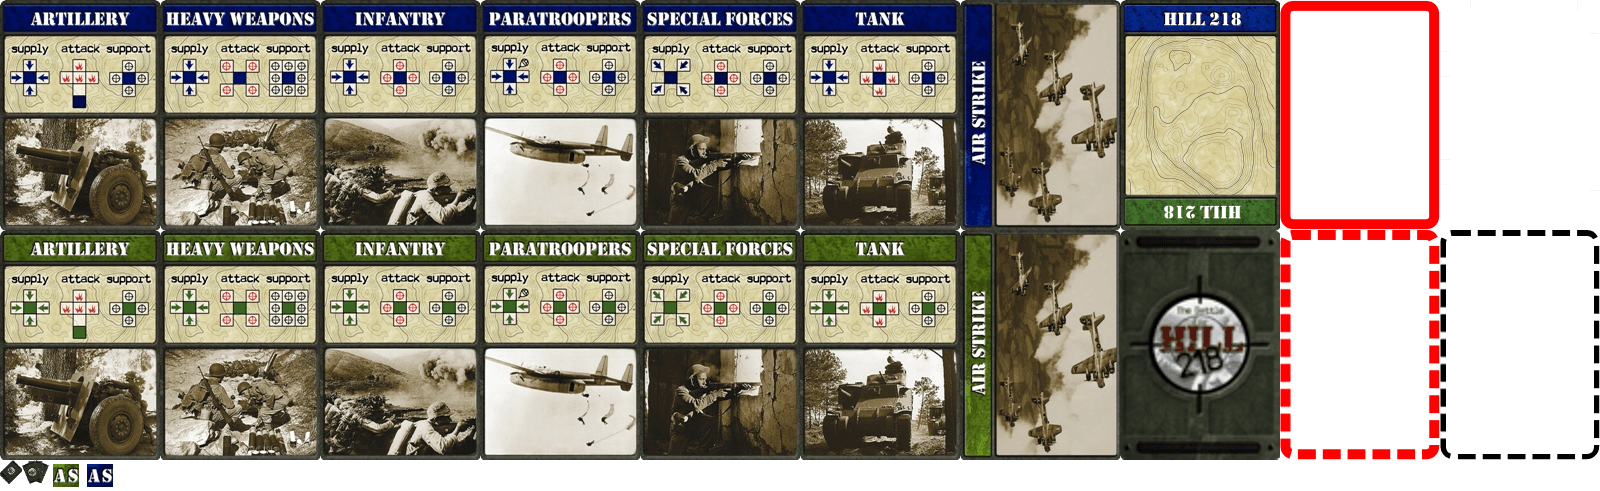
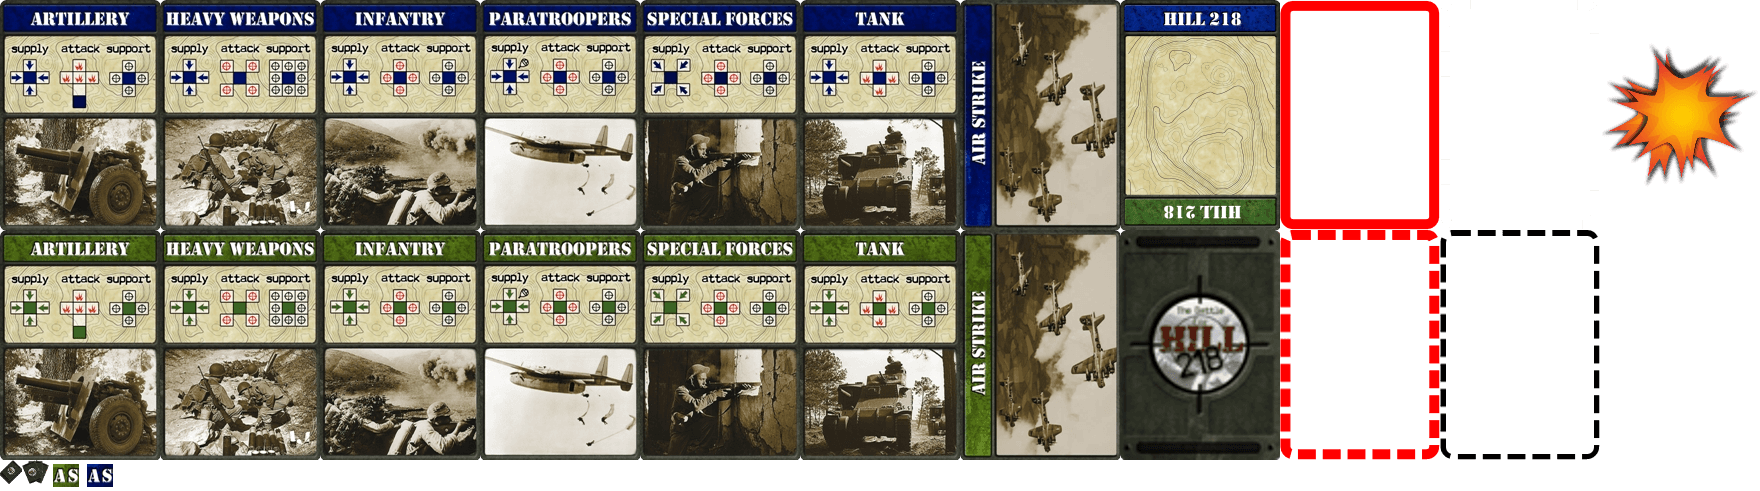
Explosion on attack card

diff --git a/battleforhilldhau.css b/battleforhilldhau.css
@@ -196,7 +196,6 @@
 .battlefield-button {
     width: 96px;
     height: 138px;
-    background: rgba(255, 255, 0, 0.5);
     position: absolute;
     display: none;
 }
@@ -208,7 +207,7 @@
     font-weight: bold;
     font-size: 14px;
     background-image: url(img/cards.png);
-    background-size: 960px 295px;
+    background-size: 1056px 295px;
     background-repeat: no-repeat;
     background-position: -864px -138px;
     display: table-cell;
@@ -224,7 +223,7 @@
     width: 96px;
     height: 138px;
     background-image: url(img/cards.png);
-    background-size: 960px 295px;
+    background-size: 1056px 295px;
     background-repeat: no-repeat;
     background-position: -864px 0px;
 }
@@ -232,12 +231,25 @@
     background-position: -768px 0px;
 }
 
+/* Card Effects */
+.explosion {
+    position: relative;
+    top: -138px;
+    display: block;
+    width: 96px;
+    height: 138px;
+    background-image: url(img/cards.png);
+    background-size: 1056px 295px;
+    background-repeat: no-repeat;
+    background-position: -960px 0px;
+}
+
 /* Cards */
 .card {
     width: 80px;
     height: 115px;
     background-image: url(img/cards.png);
-    background-size: 800px 246px;
+    background-size: 880px 246px;
     background-position: 80px 115px;
     background-repeat: no-repeat;
 }
@@ -295,7 +307,7 @@
     width: 96px;
     height: 138px;
     background-image: url(img/cards.png);
-    background-size: 960px 295px;
+    background-size: 1056px 295px;
     background-position: 96px 138px;
     background-repeat: no-repeat;
 }
@@ -353,7 +365,7 @@
     width: 160px;
     height: 230px;
     background-image: url(img/cards.png);
-    background-size: 1600px 491px;
+    background-size: 1760px 491px;
     background-position: 160px 230px;
     background-repeat: no-repeat;
 }

diff --git a/battleforhilldhau.js b/battleforhilldhau.js
@@ -330,6 +330,10 @@ function (dojo, declare, lang, dom, query, array, domConstruct, domClass, domGeo
             return domConstruct.toDom(this.format_block('jstpl_hand_card', coloredCard));
         },
 
+        createExplosion: function() {
+            return domConstruct.toDom(this.format_block('jstpl_explosion'));
+        },
+
         createBattlefieldCard: function(card, color) {
             var coloredCard = lang.mixin({}, card, {color: color});
             return domConstruct.toDom(this.format_block('jstpl_battlefield_card', coloredCard));
@@ -788,6 +792,10 @@ function (dojo, declare, lang, dom, query, array, domConstruct, domClass, domGeo
             var x = notification.args.x;
             var y = notification.args.y;
             var position = this.getOrCreatePlacementPosition(x, y);
+
+            var explosion = this.createExplosion();
+            dojo.place(explosion, position);
+            this.fadeOutAndDestroy(explosion);
             this.fadeOutAndDestroy(query(position).query('.battlefield-card').pop());
         },
 

diff --git a/src/TheBattleForHill218/Commands/CompileImagesCommand.php b/src/TheBattleForHill218/Commands/CompileImagesCommand.php
@@ -50,12 +50,13 @@ class CompileImagesCommand extends Command
         $this->imageManager = new ImageManager(['driver' => 'imagick']);
         $tileRows = F\reduce_left(
             [
-                new TileSpec(self::CARDS_DIRPATH . '/' . 'Hill.jpg', 'hill'),
-                new TileSpec(self::CARDS_DIRPATH . '/' . 'Back.png', 'back'),
-                new TileSpec(self::CARDS_DIRPATH . '/' . 'Red Solid.png'),
-                new TileSpec(self::CARDS_DIRPATH . '/' . 'Red Dashed.png'),
-                new TileSpec(self::CARDS_DIRPATH . '/' . 'White Dashed.png'),
-                new TileSpec(self::CARDS_DIRPATH . '/' . 'Black Dashed.png')
+                new TileSpec(self::CARDS_DIRPATH . '/Hill.jpg', 'hill'),
+                new TileSpec(self::CARDS_DIRPATH . '/Back.png', 'back'),
+                new TileSpec(self::CARDS_DIRPATH . '/Red Solid.png'),
+                new TileSpec(self::CARDS_DIRPATH . '/Red Dashed.png'),
+                new TileSpec(self::CARDS_DIRPATH . '/White Dashed.png'),
+                new TileSpec(self::CARDS_DIRPATH . '/Black Dashed.png'),
+                new TileSpec(self::CARDS_DIRPATH . '/Explosion.png')
             ],
             function (TileSpec $tile, $i, array $rowImages, array $reduction) {
                 $numRows = count($reduction);

diff --git a/README.md b/README.md
@@ -83,8 +83,6 @@ Available in `etc/pre-commit`. Runs an auto style detection and prevents commit 
  
  - tooltips on cards -> I think you should always display the tooltips when hovering over the card (not just for cards 
    in hand when it's your turn to play)
- 
- - when destroying a card, it would be nice to have the explosion symbol briefly displayed over it :)
   
  - It would be easier if the battlefield was always shown from the same side, no matter which color you are playing. By 
    this I mean that if I'm red, I play my cards from the bottom, if I'm blue, I still play my cards from the bottom. You 
